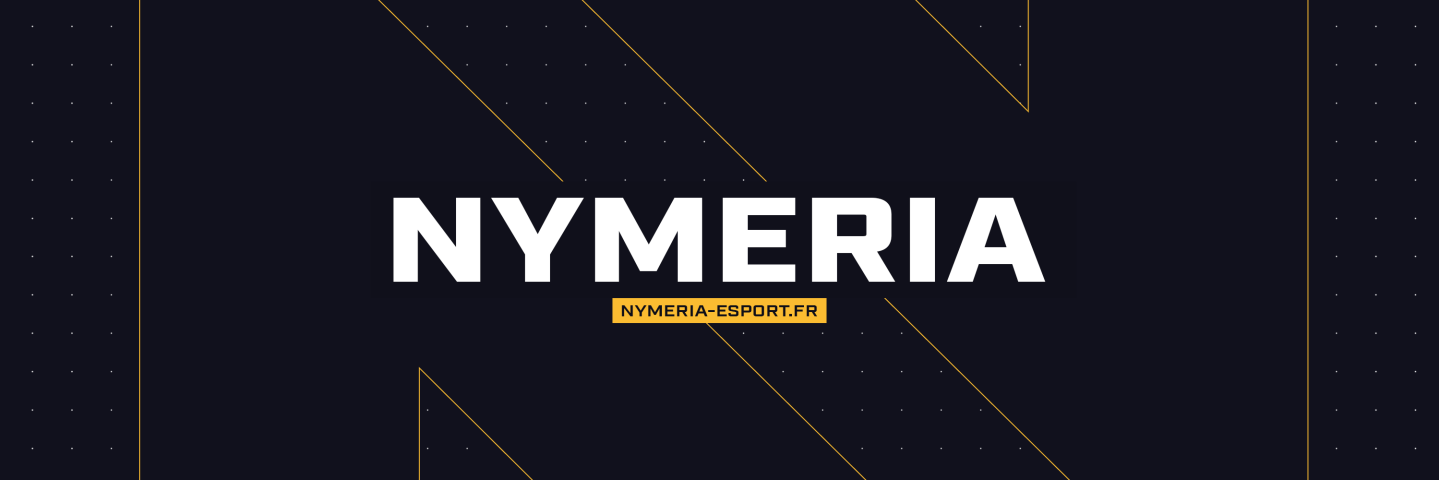
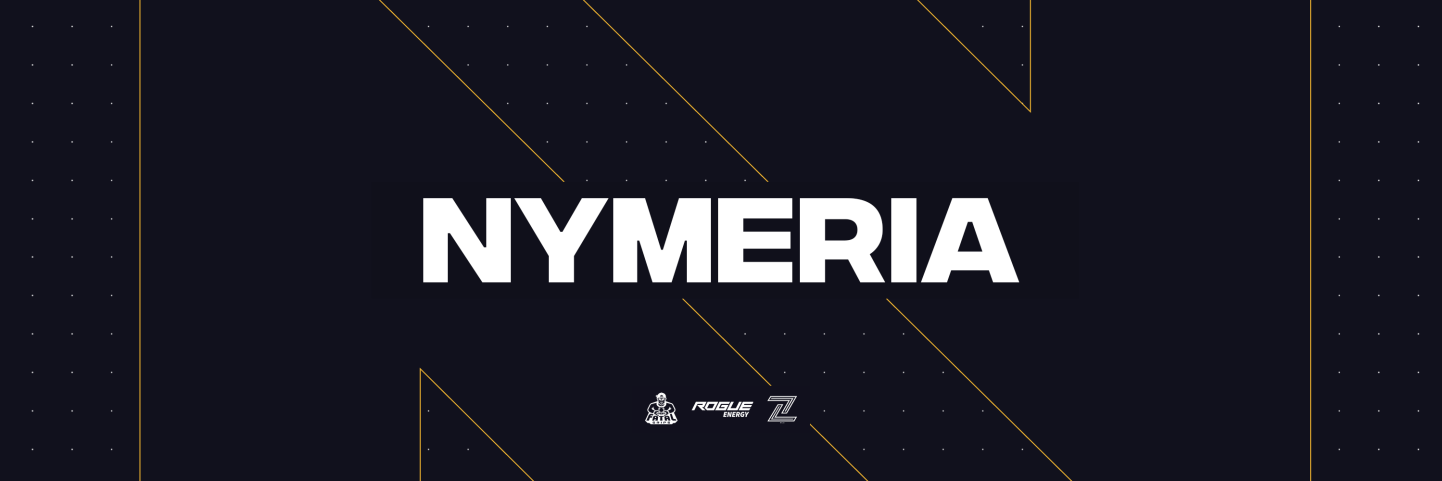
home games gallery

Changed region(s): [[0.2752, 0.4062, 0.7338, 0.6875], [0.4281, 0.8125, 0.5504, 0.875]]

diff --git a/index.css b/index.css
@@ -1,6 +1,9 @@
 html {
-		background-image: url("media/background.png");
 	background-repeat: no-repeat;
+	background-size: 100%;
+	background-position: center top 0px; 
+		background-color: #11111d;
+
 }
 
 .test {
@@ -26,6 +29,9 @@ p {
 	text-align: center;
 }
 
+.header {
+	width: 100vw;
+}
 
 .title {
 
@@ -47,3 +53,66 @@ text-align: center;
     align-items: center;
     justify-content: center;
 }
+
+
+
+
+
+
+.container {
+	 display: flex;
+	 justify-content: center;
+	 align-items: center;
+	 margin-left: 10vmin;
+	 	 margin-right: 10vmin;
+	 overflow: hidden;
+	 transform: skew(5deg);
+}
+ .container .card {
+	 flex: 1;
+	 transition: all 1s ease-in-out;
+	 height: 35vmin;
+	 position: relative;
+}
+ .container .card .card__head {
+	 color: black;
+	 background: #fbbc31;
+	 padding: 0.5em;
+	 transform: rotate(-90deg);
+	 transform-origin: 0% 0%;
+	 transition: all 0.5s ease-in-out;
+	 min-width: 100%;
+	 text-align: center;
+	 position: absolute;
+	 bottom: 0;
+	 left: 0;
+	 font-size: 1em;
+	 white-space: nowrap;
+	     font-family: "IntegralCF-Regular";
+
+}
+ .container .card:hover {
+	 flex-grow: 10;
+}
+ .container .card:hover img {
+	 filter: grayscale(0);
+}
+ .container .card:hover .card__head {
+	 text-align: center;
+	 top: calc(100% - 2em);
+	 color: white;
+	 background: rgba(0, 0, 0, 0.5);
+	 font-size: 2em;
+	 transform: rotate(0deg) skew(-5deg);
+}
+ .container .card img {
+	 width: 100%;
+	 height: 100%;
+	 object-fit: cover;
+	 transition: all 1s ease-in-out;
+	 filter: grayscale(100%);
+}
+ .container .card:not(:nth-child(5)) {
+	 margin-right: 1em;
+}
+ 

diff --git a/index.html b/index.html
@@ -25,14 +25,38 @@
 		<a href="index.html">
 			<img class="logo" src="media/circle_logo.png">
 		</a>
-		<div class="titre">
-			<h1 class="title">NYMERIA</h1>
-		</div>
-
+		
 		<div>
-			<p></p>
+			<!--<h1 class="title">NYMERIA</h1>-->
+				<img class="header" src="media/Header.png">
 		</div>
 	</div>
+		
+			<div class="container">
+			  <div class="card">
+			    <a href="team.html"><img src="media/fortnite.jfif"></a>
+			    <div class="card__head">Fortnite</div>
+			  </div>
+			  <div class="card">
+			    <img src="media/valorant.jpg">
+			    <div class="card__head">Valorant</div>
+			  </div>
+			  <div class="card">
+			    <img src="media/rocket-league.jpg">
+			    <div class="card__head">Rocket League</div>
+			  </div>
+			  <div class="card">
+			    <img src="media/rainbow-six.jpg">
+			    <div class="card__head">Rainbow Six Siege</div>
+			  </div>
+			  <!--
+			  <div class="card">
+			    <img src="https://upload.wikimedia.org/wikipedia/commons/thumb/d/de/Mimi%26Tigsi.jpg/1280px-Mimi%26Tigsi.jpg">
+			    <div class="card__head">Sleepy Cat</div>
+			  </div>
+			-->
+			</div>
+	
 
 </body>
 </html>
